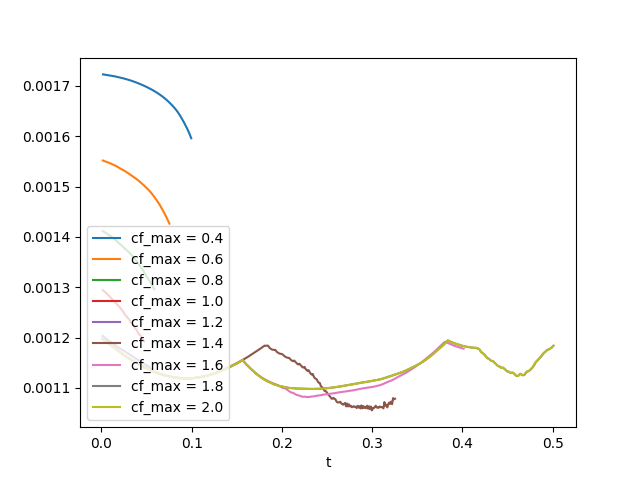
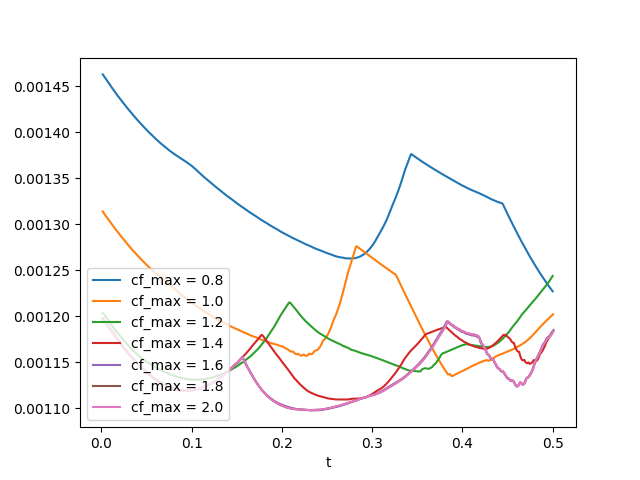
change boris to apply to get_primitive

diff --git a/mhd-boris.py b/mhd-boris.py
@@ -10,6 +10,8 @@ Simulate the Orszag-Tang vortex MHD problem
 
 with Boris Integrator to control timesteps!
 
+The original problem has cf_max ~ 1.9, u_max ~ 1.6
+
 """
 
 def getCurl(Az, dx):
@@ -88,7 +90,7 @@ def getConserved( rho, vx, vy, P, Bx, By, gamma, vol ):
   return Mass, Momx, Momy, Energy
 
 
-def getPrimitive( Mass, Momx, Momy, Energy, Bx, By, gamma, vol ):
+def getPrimitive( Mass, Momx, Momy, Energy, Bx, By, gamma, vol, cf_limit ):
   """
     Calculate the primitive variable from the conservative
   Mass     is matrix of mass in cells
@@ -108,6 +110,13 @@ def getPrimitive( Mass, Momx, Momy, Energy, Bx, By, gamma, vol ):
   vx  = Momx / rho / vol
   vy  = Momy / rho / vol
   P   = (Energy/vol - 0.5*rho*(vx**2+vy**2) - 0.5*(Bx**2+By**2)) * (gamma-1) + 0.5*(Bx**2+By**2)
+
+  c0 = np.sqrt( gamma*(P-0.5*(Bx**2+By**2))/rho )
+  ca = np.sqrt( (Bx**2+By**2)/rho )
+  cf = np.sqrt( c0**2+ca**2 )
+  alpha = np.minimum(1.0, cf_limit / cf)
+  vx *= alpha
+  vy *= alpha
 
   return rho, vx, vy, P
 
@@ -224,7 +233,7 @@ def constrainedTransport(bx, by, flux_By_X, flux_Bx_Y, dx, dt):
   return bx, by 
 
 
-def getFlux(rho_L, rho_R, vx_L, vx_R, vy_L, vy_R, P_L, P_R, Bx_L, Bx_R, By_L, By_R, gamma, max_cf):
+def getFlux(rho_L, rho_R, vx_L, vx_R, vy_L, vy_R, P_L, P_R, Bx_L, Bx_R, By_L, By_R, gamma, cf_limit):
   """
     Calculate fluxed between 2 states with local Lax-Friedrichs/Rusanov rule 
   rho_L        is a matrix of left-state  density
@@ -275,15 +284,15 @@ def getFlux(rho_L, rho_R, vx_L, vx_R, vy_L, vy_R, P_L, P_R, Bx_L, Bx_R, By_L, By
   cf_L = np.sqrt( c0_L**2+ca_L**2 )
   cf_R = np.sqrt( c0_R**2+ca_R**2 )
   # boris
-  alpha_L = np.minimum(1.0, max_cf / cf_L)
-  alpha_R = np.minimum(1.0, max_cf / cf_R)
-  alpha = np.minimum(alpha_L, alpha_R)
-  alphaSq = alpha ** 2
-  # Try 1
-  flux_Momx *= alphaSq
-  flux_Momy *= alphaSq
-  cf_L *= alpha_L
-  cf_R *= alpha_R
+  #alpha_L = np.minimum(1.0, cf_limit / cf_L)
+  #alpha_R = np.minimum(1.0, cf_limit / cf_R)
+  #alpha = np.minimum(alpha_L, alpha_R)
+  #alphaSq = alpha ** 2
+  ## Try 1
+  #flux_Momx *= alphaSq
+  #flux_Momy *= alphaSq
+  #cf_L *= alpha_L
+  #cf_R *= alpha_R
 
   C_L = cf_L + np.abs(vx_L)
   C_R = cf_R + np.abs(vx_R)
@@ -306,12 +315,12 @@ def main():
   
   # Check for command line arguments
   if len(sys.argv) != 2:
-    print("Usage: python mhd-boris.py <max_cf>")
+    print("Usage: python mhd-boris.py <cf_limit>")
     return
   
   # Parse command line argument
   # for the boris integrator (try 1.0, 1.5, 2.0)
-  max_cf = float(sys.argv[1])
+  cf_limit = float(sys.argv[1])
 
   # Simulation parameters
   N                      = 128 # resolution
@@ -362,15 +371,17 @@ def main():
     
     # get Primitive variables
     Bx, By = getBavg(bx, by)
-    rho, vx, vy, P = getPrimitive( Mass, Momx, Momy, Energy, Bx, By, gamma, vol )
+    rho, vx, vy, P = getPrimitive( Mass, Momx, Momy, Energy, Bx, By, gamma, vol, cf_limit )
     
     # get time step (CFL) = dx / max signal speed
     c0 = np.sqrt( gamma*(P-0.5*(Bx**2+By**2))/rho )
     ca = np.sqrt( (Bx**2+By**2)/rho )
     cf = np.sqrt( 0.5*(c0**2+ca**2) + 0.5*np.sqrt((c0**2+ca**2)**2) )
-    alpha = np.minimum(1.0, max_cf / np.sqrt(c0**2+ca**2))
-    cf *= alpha
+    max_cf = np.max(cf)
+    alpha = np.minimum(1.0, cf_limit / np.sqrt(c0**2+ca**2))
+    #cf *= alpha
     dt = courant_fac * np.min( dx / (cf + np.sqrt(vx**2+vy**2)) )
+    u_max = np.max(np.sqrt(vx**2+vy**2))
 
     plotThisTurn = False
     if t + dt > outputCount*tOut:
@@ -411,8 +422,8 @@ def main():
     By_XL,  By_XR,  By_YL,  By_YR  = extrapolateInSpaceToFace(By_prime,  By_dx,  By_dy,  dx)
     
     # compute fluxes (local Lax-Friedrichs/Rusanov)
-    flux_Mass_X, flux_Momx_X, flux_Momy_X, flux_Energy_X, flux_By_X = getFlux(rho_XL, rho_XR, vx_XL, vx_XR, vy_XL, vy_XR, P_XL, P_XR, Bx_XL, Bx_XR, By_XL, By_XR, gamma, max_cf)
-    flux_Mass_Y, flux_Momy_Y, flux_Momx_Y, flux_Energy_Y, flux_Bx_Y = getFlux(rho_YL, rho_YR, vy_YL, vy_YR, vx_YL, vx_YR, P_YL, P_YR, By_YL, By_YR, Bx_YL, Bx_YR, gamma, max_cf)
+    flux_Mass_X, flux_Momx_X, flux_Momy_X, flux_Energy_X, flux_By_X = getFlux(rho_XL, rho_XR, vx_XL, vx_XR, vy_XL, vy_XR, P_XL, P_XR, Bx_XL, Bx_XR, By_XL, By_XR, gamma, cf_limit)
+    flux_Mass_Y, flux_Momy_Y, flux_Momx_Y, flux_Energy_Y, flux_Bx_Y = getFlux(rho_YL, rho_YR, vy_YL, vy_YR, vx_YL, vx_YR, P_YL, P_YR, By_YL, By_YR, Bx_YL, Bx_YR, gamma, cf_limit)
     
     # update solution
     Mass   = applyFluxes(Mass, flux_Mass_X, flux_Mass_Y, dx, dt)
@@ -429,7 +440,7 @@ def main():
     
     # check div B
     divB = getDiv(bx,by,dx)
-    print("t = ", t, "alpha=", np.min(alpha), ", mean |divB| = ", np.mean(np.abs(divB)))
+    print("t = ", t, "max_cf=", max_cf, "u_max=", u_max, "alpha=", np.min(alpha), ", mean |divB| = ", np.mean(np.abs(divB)))
     
     # plot in real time
     if (plotRealTime and plotThisTurn) or (t >= tEnd):
@@ -449,7 +460,7 @@ def main():
   print("done!")
   
   # Save figure
-  plt.savefig('P_B_'+str(max_cf)+'.png',dpi=240)
+  plt.savefig('P_B_'+str(cf_limit)+'.png',dpi=240)
   #plt.show()
 
   # Plot and save the timestep history
@@ -458,13 +469,13 @@ def main():
   plt.ylabel('dt')
   plt.xlim(0, tEnd)
   plt.ylim(0.001, 0.0014)
-  plt.savefig('dt_'+str(max_cf)+'.png',dpi=240)
+  plt.savefig('dt_'+str(cf_limit)+'.png',dpi=240)
 
   P_B = np.sqrt(bx**2+by**2)
   # Save rho, P_B, and dt_sav
-  np.save('data_rho_'+str(max_cf)+'.npy', rho.T)
-  np.save('data_P_B_'+str(max_cf)+'.npy', P_B.T)
-  np.save('data_dt_'+str(max_cf)+'.npy', dt_sav)
+  np.save('data_rho_'+str(cf_limit)+'.npy', rho.T)
+  np.save('data_P_B_'+str(cf_limit)+'.npy', P_B.T)
+  np.save('data_dt_'+str(cf_limit)+'.npy', dt_sav)
 
       
   return 0

diff --git a/analysis.py b/analysis.py
@@ -7,40 +7,40 @@ import matplotlib.pyplot as plt
 
 def main():
 
-  max_cfs = [0.4, 0.6, 0.8, 1.0, 1.2, 1.4, 1.6, 1.8, 2.0]
+  cf_limits = [0.8, 1.0, 1.2, 1.4, 1.6, 1.8, 2.0]
 
   rho = {}
   P_B = {}
   dt = {}
 
   # Load the data (rho, P_B, dt)
-  for max_cf in max_cfs:
-    rho[max_cf] = np.load('data_rho_'+str(max_cf)+'.npy')
-    P_B[max_cf] = np.load('data_P_B_'+str(max_cf)+'.npy')
-    dt[max_cf] = np.load('data_dt_'+str(max_cf)+'.npy')
+  for cf_limit in cf_limits:
+    rho[cf_limit] = np.load('data_rho_'+str(cf_limit)+'.npy')
+    P_B[cf_limit] = np.load('data_P_B_'+str(cf_limit)+'.npy')
+    dt[cf_limit] = np.load('data_dt_'+str(cf_limit)+'.npy')
 
   # stack the rho next to each other and plot it as an image
-  rho_all = np.hstack([rho[max_cf] for max_cf in max_cfs])
-  P_B_all = np.hstack([P_B[max_cf] for max_cf in max_cfs])
+  rho_all = np.hstack([rho[cf_limit] for cf_limit in cf_limits])
+  P_B_all = np.hstack([P_B[cf_limit] for cf_limit in cf_limits])
 
   plt.figure(figsize=(12, 4))
   plt.imshow(rho_all, aspect=1, cmap='jet')
   plt.colorbar()
-  plt.xlabel('cf_max = '+str(max_cfs))
+  plt.xlabel('cf_max = '+str(cf_limits))
   plt.savefig('analysis_rho.png')
   plt.show()
 
   plt.figure(figsize=(12, 4))
   plt.imshow(P_B_all, aspect=1, cmap='jet')
   plt.colorbar()
-  plt.xlabel('cf_max = '+str(max_cfs))
+  plt.xlabel('cf_max = '+str(cf_limits))
   plt.savefig('analysis_P_B.png')
   plt.show()
 
-  # plot the dt for each max_cf
+  # plot the dt for each cf_limit
   plt.figure()
-  for max_cf in max_cfs:
-    plt.plot(np.cumsum(dt[max_cf]), dt[max_cf], label='cf_max = '+str(max_cf))
+  for cf_limit in cf_limits:
+    plt.plot(np.cumsum(dt[cf_limit]), dt[cf_limit], label='cf_max = '+str(cf_limit))
   plt.legend(loc='lower left')
   plt.xlabel('t')
   plt.savefig('analysis_dt.png')

diff --git a/README.md b/README.md
@@ -6,6 +6,7 @@ Philip Mocz (2024), [@PMocz](https://twitter.com/PMocz)
 Based on 
 [📝 Read the Algorithm Write-up on Medium](https://levelup.gitconnected.com/create-your-own-constrained-transport-magnetohydrodynamics-simulation-with-python-276f787f537d)
 
+See also: https://arxiv.org/abs/1902.02810
 
 Simulate the Orszag-Tang vortex MHD problem
 with the Boris Integrator
@@ -20,8 +21,6 @@ python mhd-boris.py 1.4
 python mhd-boris.py 1.2
 python mhd-boris.py 1.0
 python mhd-boris.py 0.8
-python mhd-boris.py 0.6
-python mhd-boris.py 0.4
 python analysis.py
 ```
 
